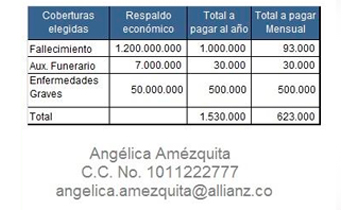
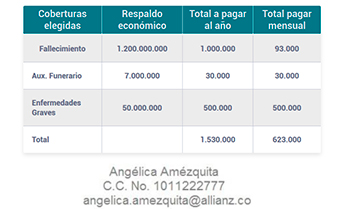
ajuste de tabla

diff --git a/vida-Actuall/index.html b/vida-Actuall/index.html
@@ -60,10 +60,10 @@
 <table class="main k-table" data-type="image" id="66b53801-5799-cbbb-5362-ba9c90a43599" style="background-color: #ffffff; display: table;" width="700" cellspacing="0" cellpadding="0" border="0" align="center">
 <tbody>
 <tr>
-<td style="padding: 0px 30px;width: 350px;height: 210px;background: #e1cfe9;font-family: helvetica;font-size:11pt;" align="left">
+<td style="padding: 0px 30px;width: 350px;height: 210px;background: #BBDAD5;font-family: helvetica;font-size:11pt;" align="left">
 De acuerdo al análisis realizado, donde se tuvieron en cuenta tus sueños, tu familia y tu momento laboral, en esta gráfica te mostramos tus necesidades de respaldo económico para hoy, a cinco, diez y quice años, queremos que disfrutes tu vida con los que más quieres...
 </td>
-<td class="image" style="padding: 0px 0px;" align="center"><img data-maxwidth="240" id="cb0a80cd-32c8-61e4-a7c8-625208c9bdb0" loop="loop" src="https://allianz.linkpruebas.com/vida-Actuall/V4_11.jpg" style="display: block;" width="350" height="210" border="0" align="one_image" tabindex="0" /></td>
+<td class="image" style="padding: 0px 0px;" align="center"><img data-maxwidth="240" id="cb0a80cd-32c8-61e4-a7c8-625208c9bdb0" loop="loop" src="https://allianz.linkpruebas.com/vida-Actuall/V4_09.jpg" style="display: block;" width="350" height="210" border="0" align="one_image" tabindex="0" /></td>
 </tr>
 </tbody>
 </table>
